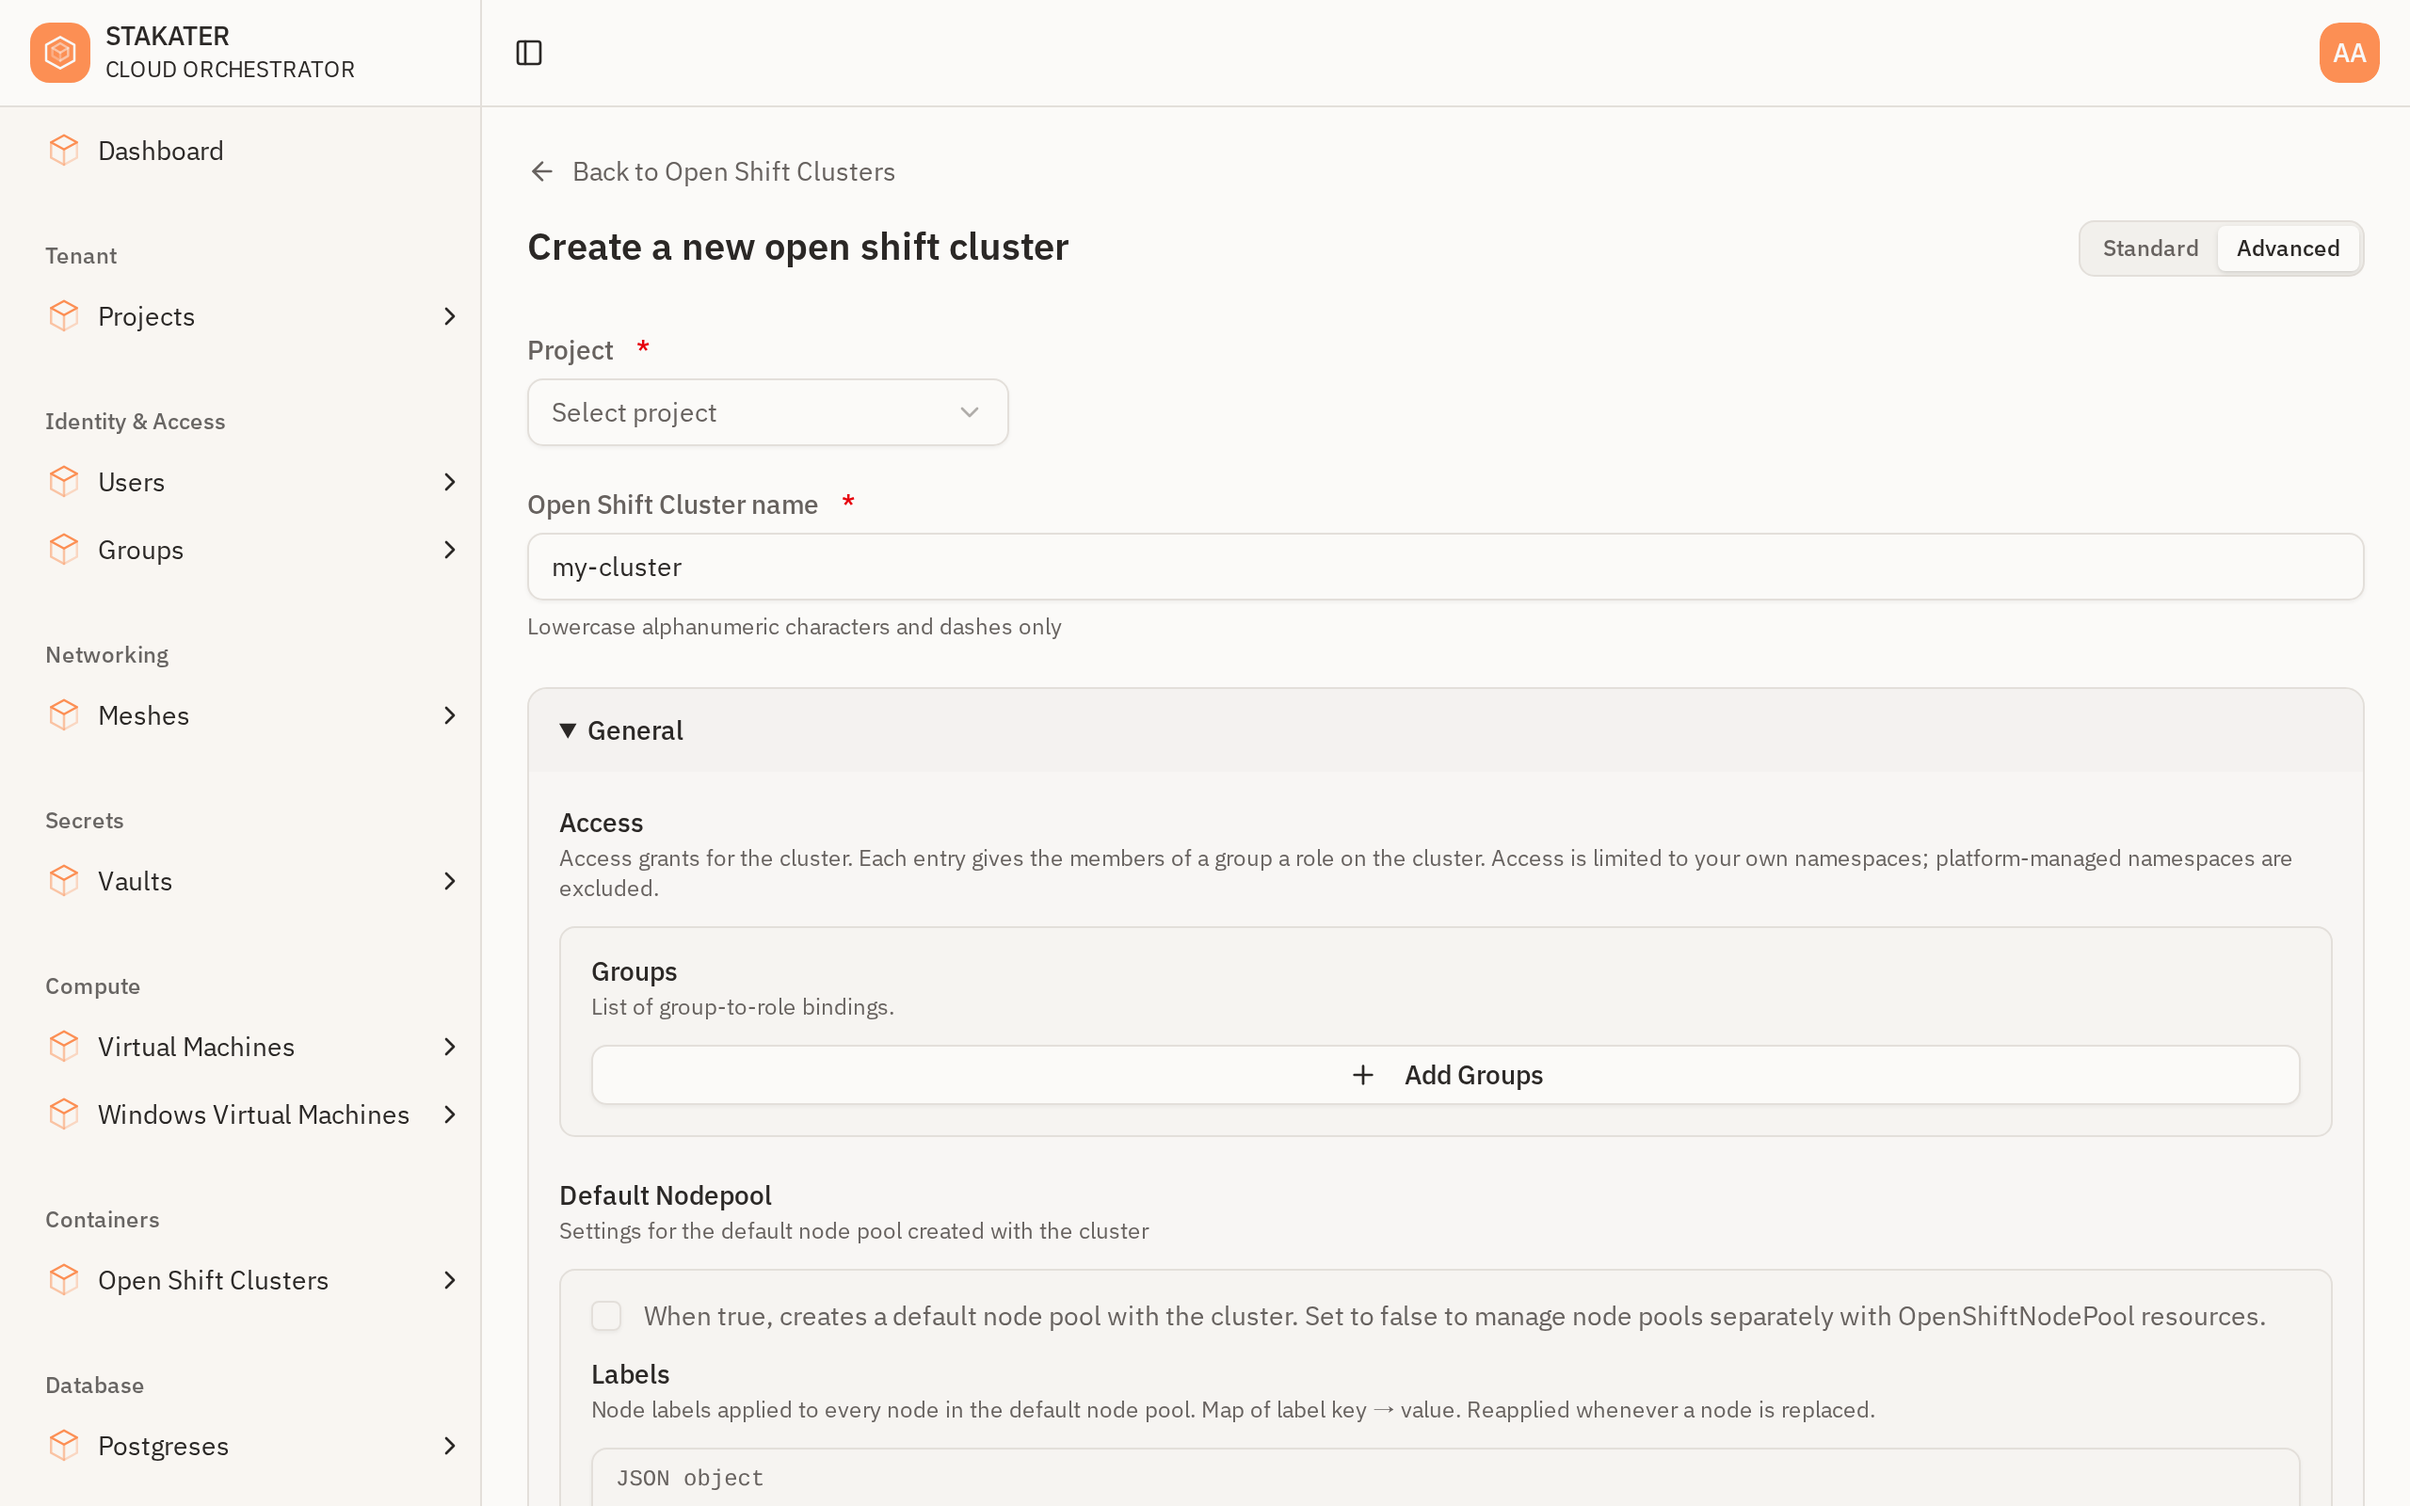
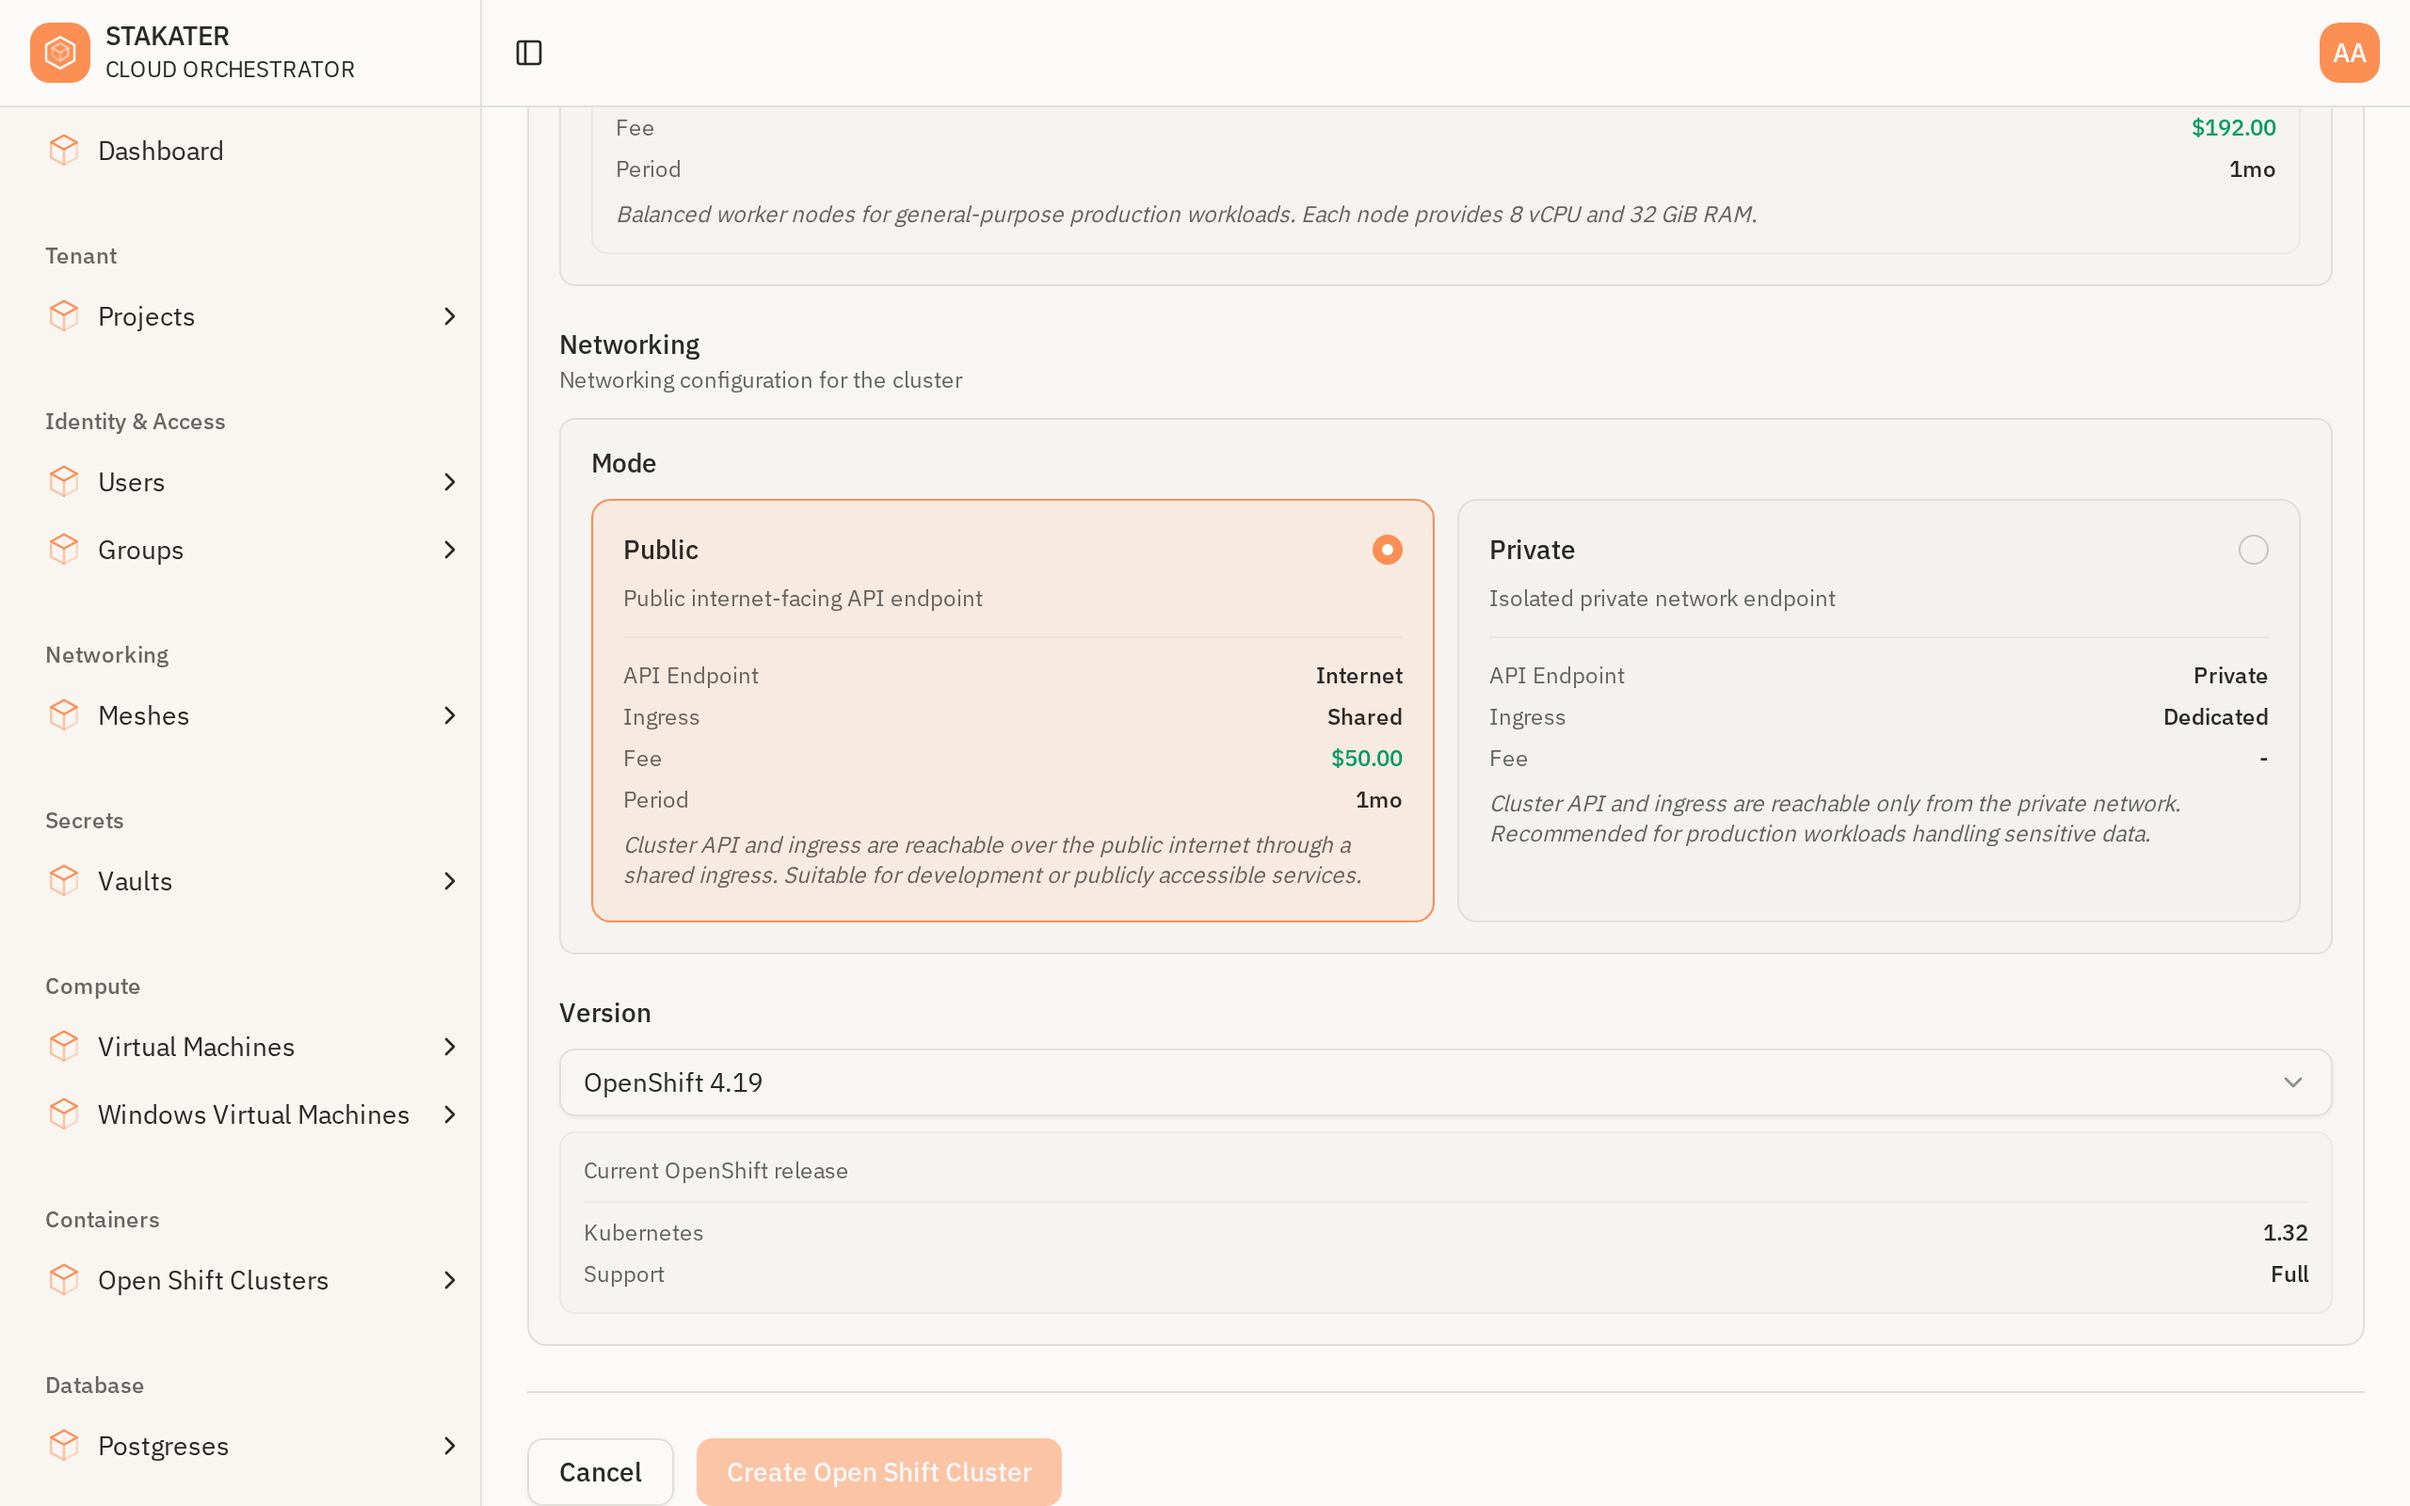
fix(screenshots): frame the Advanced cluster shot where Advanced differs
Review caught that cluster-create-standard and -advanced were the same image
bar the toggle. Two causes. The scroll was issued right after aria-pressed
flipped, and the form re-renders its fields a beat later, resetting scroll --
so the settle now comes before the scroll. And the anchor was wrong anyway:
Access and the default node pool are Standard fields, so the top of the form
is identical in both modes. The shot now ends on the submit button, which
frames the networking Public/Private choice and the version selector.

DOCS_CLUSTER_GROUPS_LABEL goes with the old anchor.

diff --git a/content/how-to-guides/user/provision-openshift-cluster.md b/content/how-to-guides/user/provision-openshift-cluster.md
@@ -27,9 +27,9 @@ Clusters are under **Containers** in the sidebar. The create form opens in **Sta
 
 ![The Create OpenShift Cluster form in Standard mode]({{ screenshot: cluster-create-standard }})
 
-**Advanced** reveals the rest: access groups, the default node pool, networking mode and version. Each entry under **Access › Groups** pairs a group name with a role, so add one row per group rather than listing names:
+**Advanced** reveals the rest of the claim further down the form — node pool sizing, the networking **Mode** as a Public / Private choice with what each one exposes, and the OpenShift **Version**:
 
-![The create form in Advanced mode, showing the Access groups and Default Nodepool sections]({{ screenshot: cluster-create-advanced }})
+![The lower part of the create form in Advanced mode, showing the networking mode choice and the version selector]({{ screenshot: cluster-create-advanced }})
 
 ## Step 1: Minimal Configuration
 
